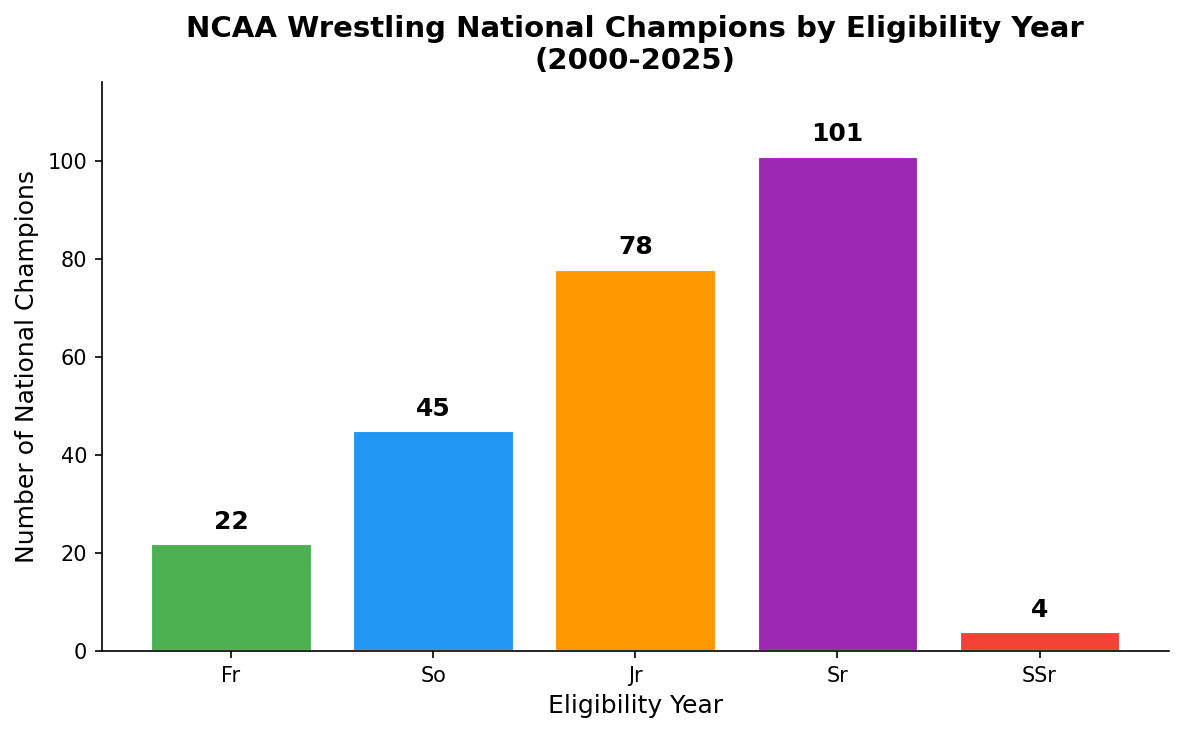
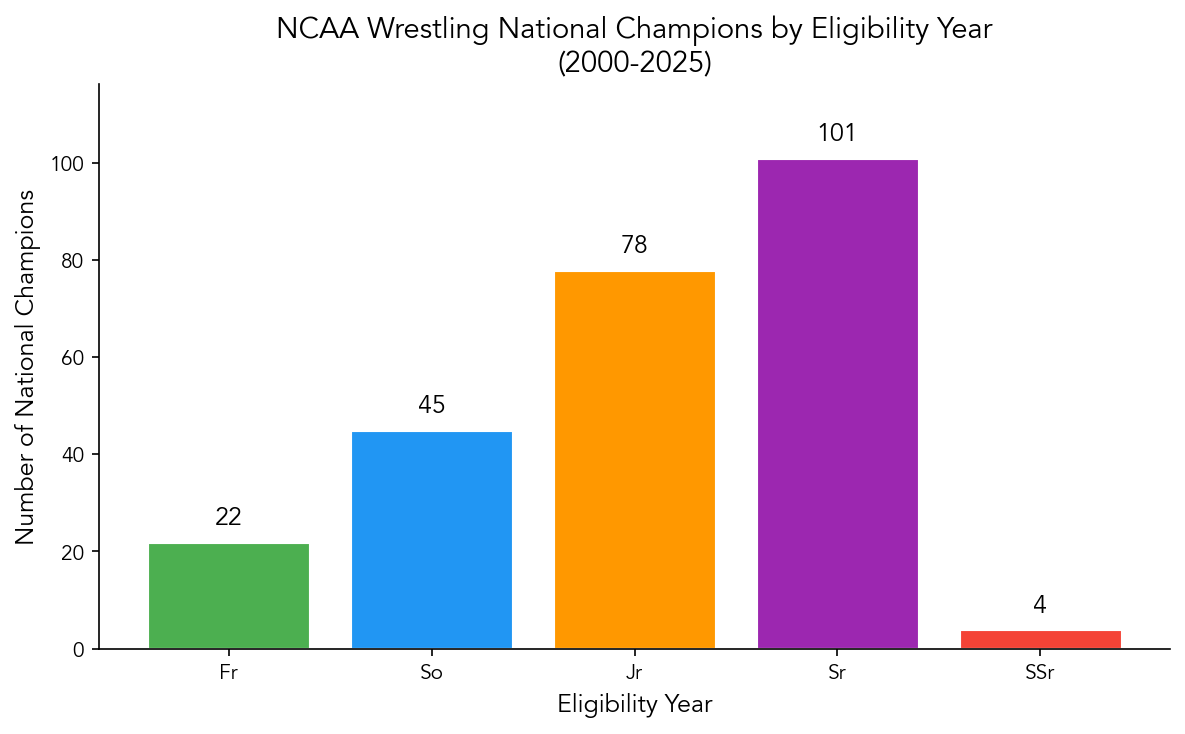
Update charts to use modern slim font (Avenir)

diff --git a/notebooks/analysis.py b/notebooks/analysis.py
@@ -32,6 +32,10 @@ plt.rcParams["savefig.bbox"] = "tight"
 plt.rcParams["figure.facecolor"] = "white"
 plt.rcParams["axes.facecolor"] = "white"
 plt.rcParams["font.family"] = "sans-serif"
+plt.rcParams["font.sans-serif"] = ["Avenir", "Helvetica Neue", "Helvetica", "Arial"]
+plt.rcParams["font.weight"] = "light"
+plt.rcParams["axes.labelweight"] = "light"
+plt.rcParams["axes.titleweight"] = "medium"
 
 # Eligibility year order (for consistent plotting)
 ELIGIBILITY_ORDER = ["Fr", "So", "Jr", "Sr", "SSr"]
